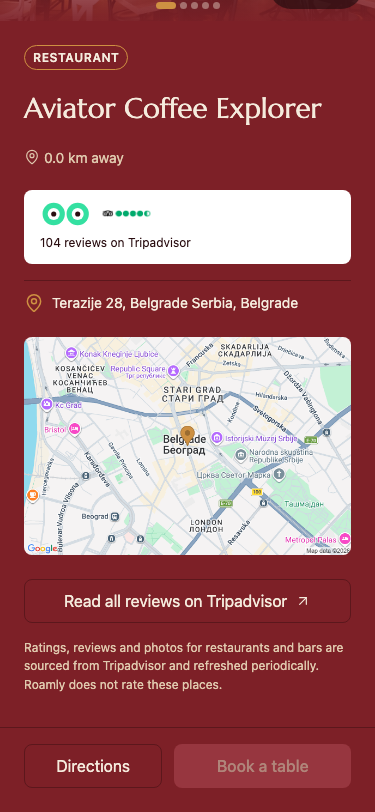
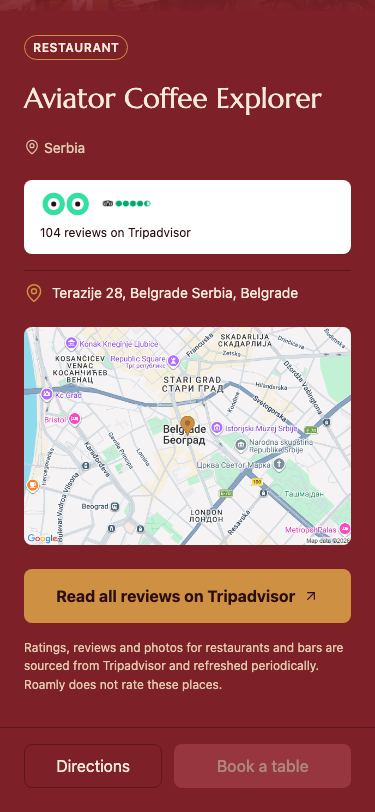
fix(app): restyle Tripadvisor CTA button from outlined to filled Primary
design-spec.md's 5b footer mock was updated: "Add to my trip" gold button
removed entirely (never built, nothing to remove), and "Read all reviews
on Tripadvisor" is now the sole footer CTA — filled Primary treatment
(--primary bg, --ink label, no border, 54px min-height, weight 700)
instead of Secondary/outlined.

diff --git a/app/src/features/activity-list/ActivityDetailScreen.test.tsx b/app/src/features/activity-list/ActivityDetailScreen.test.tsx
@@ -5,7 +5,7 @@ import {
   screen,
   waitFor,
 } from '@testing-library/react-native';
-import { AccessibilityInfo, Linking, Modal, Share } from 'react-native';
+import { AccessibilityInfo, Linking, Modal, Share, StyleSheet } from 'react-native';
 import type { Activity } from '../../api/activities';
 import { getActivityPhotos } from '../../api/activities';
 import { ActivityDetailScreen } from './ActivityDetailScreen';
@@ -1059,6 +1059,21 @@ describe('ActivityDetailScreen', () => {
         expect(screen.getByText('Could not open the link. Please try again.')).toBeTruthy(),
       );
       openURLSpy.mockRestore();
+    });
+
+    it('renders the deep-link button as a filled Primary CTA, not Secondary/outlined', () => {
+      render(
+        <ActivityDetailScreen activity={tripadvisorActivity} showDistance onBack={jest.fn()} />,
+      );
+      const button = screen.getByRole('button', { name: 'Read all reviews on Tripadvisor' });
+      const buttonStyle = StyleSheet.flatten(button.props.style);
+      expect(buttonStyle).toMatchObject({ backgroundColor: '#CE9042', minHeight: 54 });
+      expect(buttonStyle).not.toHaveProperty('borderWidth');
+      const label = screen.getByText('Read all reviews on Tripadvisor');
+      expect(StyleSheet.flatten(label.props.style)).toMatchObject({
+        color: '#2A0E11',
+        fontWeight: '700',
+      });
     });
 
     it('renders the compliance disclaimer for a Tripadvisor row', () => {

diff --git a/app/src/features/activity-list/ActivityDetailScreen.tsx b/app/src/features/activity-list/ActivityDetailScreen.tsx
@@ -457,7 +457,7 @@ export function ActivityDetailScreen({
                 <Text style={styles.tripadvisorLinkLabel}>
                   Read all reviews on Tripadvisor
                 </Text>
-                <ArrowUpRight size={16} color={colors.text} strokeWidth={1.75} />
+                <ArrowUpRight size={16} color={colors.ink} strokeWidth={1.75} />
               </Pressable>
 
               <Text style={styles.tripadvisorDisclaimer}>
@@ -687,24 +687,25 @@ const styles = StyleSheet.create({
     gap: space[4],
   },
   tripadvisorLinkButton: {
+    // design-spec.md's updated 5b footer: sole footer CTA, filled Primary
+    // (DESIGN_STANDARDS.md's Buttons table) — was Secondary/outlined.
     flexDirection: 'row',
     alignItems: 'center',
     justifyContent: 'center',
     gap: space[2],
-    minHeight: 44,
-    borderWidth: 1,
-    borderColor: colors.border,
+    minHeight: 54,
     borderRadius: radius.default,
+    backgroundColor: colors.primary,
     outlineStyle: 'solid',
     outlineWidth: 0,
   },
   tripadvisorLinkButtonFocused: {
-    backgroundColor: colors.surfaceHover,
-    borderColor: colors.primary,
+    backgroundColor: colors.primaryHover,
   },
   tripadvisorLinkLabel: {
     fontSize: fontSize.md,
-    color: colors.text,
+    fontWeight: '700',
+    color: colors.ink,
   },
   tripadvisorDisclaimer: {
     fontSize: fontSize.xs,
